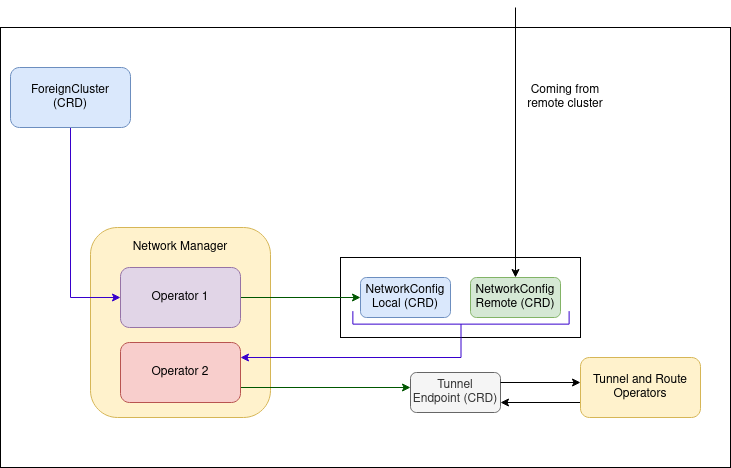
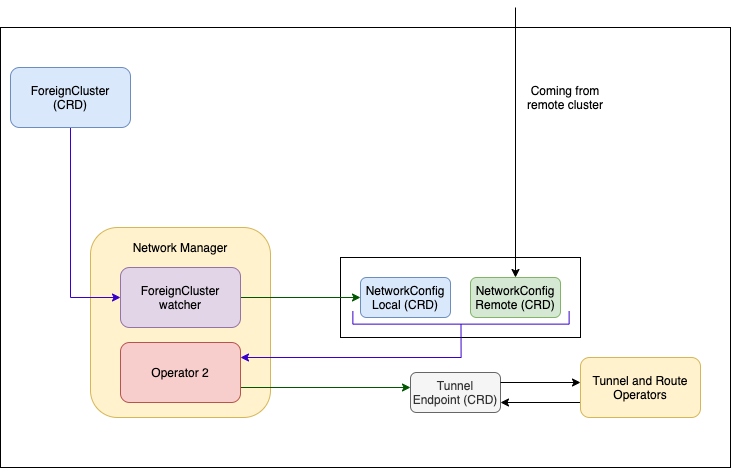
IPAM documentation
This PR adds a section on the Liqo Network Manager documentation page that describes the IPAM module and its important role in different situations: remapping of networks, translation of IP addresses of offloaded Pods and mapping of endpoint IP addresses during reflection.

diff --git a/docs/pages/concepts/networking/components/network-manager.md b/docs/pages/concepts/networking/components/network-manager.md
@@ -1,21 +1,137 @@
 ---
-title: Liqo-Network-Manager
+title:  Network Manager and IPAM
 weight: 1
 ---
 
-The Liqo Network Manager component manages the creation of the`networkconfigs.net.liqo.io` custom resources for the remote clusters. It also processes the`networkconfigs.net.liqo.io` received from the remote clusters remapping the remote networks if they overlap with any of the address spaces used in the local cluster. And when the`networkconfigs.net.liqo.io` exchanged by the two clusters are ready the Liqo Network Manager creates a new resource of type `tunnelendpoints.net.liqo.io` which models the network interconnection between the two clusters. The `tunnelendpoints.net.liqo.io` is reconciled by the [Tunnel Operator](../gateway#tunnel-operator) and the [Route Operator](../route#route-operator).
+The **Liqo Network Manager** is one of the Liqo components in charge of enabling peered clusters to communicate one to another, handling the creation of the `networkconfigs.net.liqo.io` custom resources that will be sent to remote clusters.
+Those special resources contain the network configuration of the home cluster: the PodCIDR, for example, is one of the fields of the Spec section of the resource.
 
-The following diagram illustrates how Liqo Network Manager creates the `tunnelendpoints.net.liqo.io`.
+{{% notice info %}}
+The PodCIDR is the IP addressing space used by the CNI to assign addresses to Pods (e.g., _10.0.0.0/16_).
+{{% /notice %}}
+
+In addition, the Network Manager also processes the NetworkConfigs received from the remote clusters and remaps the remote networks if they overlap with any of the address spaces used in the local cluster (see [IPAM](#ipam) for more information).
+When the NetworkConfig exchanged by the two clusters are ready, the Liqo Network Manager creates a new resource of type `tunnelendpoints.net.liqo.io` which models the network interconnection between the two clusters.
+
+The following diagram illustrates how Liqo Network Manager creates the TunnelEndpoint.
+The Network Manager creates a local NetworkConfig for each `foreignclusters.discovery.liqo.io` resource that, as the name suggests, represents a foreign cluster.
+The diagram shows also that remote clusters create their own NetworkConfig on the home cluster: the reader can guess that the local NetworkConfig is replicated on the remote cluster in the same way.
+Once the Network Manager has collected both the remote and the local NetworkConfig, an embedded operator is in charge of creating the TunnelEndpoint resource, that resumes the information contained in both resources. 
+The TunnelEndpoint is then reconciled by the [Tunnel Operator](../gateway#tunnel-operator) and the [Route Operator](../route#route-operator).
+
 
 ![Liqo Network Manager Simple Flow](../../../../images/liqonet/liqo-network-manager-simple-flow.png)
 
-#### Network Parameter Exchange
+A NetworkConfig is created populating only its Spec section with networks used in the cluster as well as parameters for the VPN tunnel configuration.
+Instead, the Status section of a NetworkConfig is updated by the remote cluster the resource has been created for (each NetworkConfig specifies in the Spec section its recipient).
+The Status section is used to signal to the cluster that have created the resource if its networks have been remapped by the remote cluster.
 
-The network parameters between two clusters are exchanged using the`networkconfigs.net.liqo.io` custom resources replicated between the clusters by the Liqo CRDReplicator component.
+{{% notice info %}}
+Traffic between clusters passes through a VPN tunnel configured by exchanging NetworkConfigs.
+{{% /notice %}}
 
-![Liqo Networkconfigs exchange flow](../../../../images/liqonet/networkconfigs-exchange-flow.png)
+The following diagram shows how information about the PodCIDR are exchanged by clusters. However, depicted NetworkConfigs do not specify only this address space, but instead contain many other information that have been ignored for the sake of semplicity.
+In the provided example, the PodCIDR of the remote cluster is already used (or creates conflicts) in the local cluster, therefore in step 2 the IPAM module maps it on another network. The local NetworkManager notify the remote cluster about the remapping by updating the Status of the resource in step 3. After the remote cluster have processed the local NetworkConfig (Step 4), the IPAM module stores how the remote cluster has remapped the local PodCIDR. Finally, the Network Manager creates the TunnelEndpoint resource combining information contained in both NetworkConfigs.
 
-1. The network configuration of Cluster1 is saved in a local custom resource (`NCFG 1->2`) containing the ClusterID of the remote cluster to whom is  destined. Same step done in Cluster2;
-2. `NCFG 1->2` is replicated to the remote cluster by the `CRDReplicator`, running in Cluster1 who knows how to interact with the API server of Cluster2. Same step done in Cluster2;
-3. In Cluster2 the custom resource `NCFG (1->2)` is processed and its status updated with the NAT information if any. The same is done with `NCFG (2->1)` in Cluster1.
-4. The CRDReplicator running in Cluster1 reflects this changes in the local resource `NCFG(1->2)`. Same step done in Cluster2; The TunnelEndpointCreator in Cluster1 combining the status of `NCFG(1->2)` and the spec of `NCFG (2->1)` it has all the necessary information to create the custom resource `TEP (1-2)` of type `tunnelendpoints.net.liqo.io`.
+![Clusters exchange network information by means of NetworkConfigs](../../../../images/liqonet/networkconfigs-exchange-info.png)
+
+#### Network Parameters Exchange
+
+The network parameters between two clusters are exchanged using the NetworkConfig custom resources replicated between the clusters by the Liqo CRDReplicator component.
+
+![Liqo NetworkConfigs exchange flow](../../../../images/liqonet/networkconfigs-exchange-flow.png)
+
+1. The network configuration of Cluster1 is saved in a local custom resource `NCFG(1->2)`, which contains the ClusterID of the remote cluster that we want to peer with. Same step done in Cluster2.
+2. The `CRDReplicator` running in Cluster1 (which knows how to interact with the API server of Cluster2) replicates `NCFG(1->2)` in the remote cluster. The same step is done in Cluster2.
+3. Once replicated in Cluster2, the custom resource `NCFG(1->2)` (living in Cluster 2) is processed and its status updated with the NAT information (if any). The same is done with `NCFG(2->1)` in Cluster1.
+4. The `CRDReplicator` running in Cluster1 reflects the updated `NCFG(1->2)` back in the local cluster. The same happens in Cluster2.
+5. The Network Manager in Cluster1 creates the custom resource `TunnelEndpoint` `TEP(1-2)` by using the information present in `NCFG(1->2)` and `NCFG(2->1)`.
+
+
+### IPAM
+Embedded within the Liqo Network Manager, the IPAM (IP Address Management) is the Liqo module in charge of:
+1. Manage networks currently in use in the home cluster.
+2. Translate the IP address of an offloaded remote pod (assigned by a foreign cluster) in the corresponding IP address that is visible from the home cluster.
+3. Translate Endpoints IP addresses during the [Reflection](../../../offloading/features/api-reflection#Overview).
+
+
+#### Networks management
+The cluster CNI provider assigns to each Pod a unique IP address, which is valid _within the cluster_ and that allows Pods to talk to each other, directly, even without the use of a Kubernetes _service_.
+Given that, Liqo extends a (first) cluster with the resources shared by a (second) remote cluster, therefore it has to enable Pods in different (peered) clusters to talk to each other directly.
+This mechanism must work even if IP addresses are valid only within the context of the cluster and therefore Pods belonging to _two_ clusters cannot talk directly.
+In addition, Liqo enables inter-cluster Pod-to-Pod without making any assumption on the address spaces (i.e. PodCIDR and ExternalCIDR) configured in each cluster.
+Therefore, Liqo must work even when the peered clusters have the same PodCIDR, hence the two Pods could have conflicting IP addresses.
+
+{{% notice info %}}
+The ExternalCIDR is the IP addressing space used by Liqo for assigning addresses to external resources during Reflection (See more [Here](#reflection-of-external-endpoints)).
+{{% /notice %}}
+
+Liqo, and in particular its IPAM module, checks if the PodCIDR of a remote cluster is already used in the local cluster.
+- If it is available, the IPAM reserves that network for the remote cluster. This means IP addresses assigned in the remote cluster are now valid also in the home cluster.
+- If a conflict is detected, the IPAM module remaps the (conflicting) PodCIDR of the remote clusters into a new address space, again reserved for that cluster.
+The same procedure happens for the ExternalCIDR.
+
+{{% notice note %}}
+The traffic toward remapped networks will require an additional NAT operation carried out by the [Tunnel Operator](../gateway#tunnel-operator) in the data plane.
+{{% /notice %}}
+
+In conclusion, the IPAM maintains a list of all the networks currently in use in the home cluster and when a new peering takes place, adds the network reserved to the remote cluster to the list. The network remains in the list as long as the peering is active and it is removed when the peering is terminated. In this way the network freed after the termination of a peering becomes available for future use.
+
+{{% notice info %}}
+You can specify reserved networks in `clusterconfigs.config.liqo.io` resource. IPAM will add these networks to the list of used networks and will no longer take it in consideration for remote clusters.
+{{% /notice %}}
+
+#### IP addresses translation of offloaded Pods
+Liqo enables the offloading of workloads on (remote) peered clusters, giving at the same time the illusion that all Pods are running on the local cluster.
+The [Virtual Kubelet (VK)](../../../offloading#virtual-kubelet) is the component in charge of offloading workloads on the remote cluster, while keeping their status always synchronized between the two clusters.
+This allows the administrator of the local cluster to inspect the status of all offloaded pods (hence, running remotely) such as they were running locally.
+However, offloaded Pods are assigned an IP address by the CNI of the foreign cluster, as they actually are run there.
+Even if these addresses are valid on the foreign cluster, they may have no meaning in the original cluster.
+
+Assume that clusters A and B have both PodCIDR equal to 10.0.0.0/24 and that their administrators agree to share resources by establishing a Liqo peering.
+Thus, IPAM module of B decides to map A's PodCIDR on an available network, say 192.168.0.0/24.
+After the peering has been completed, B offloads Pod A1 on cluster A.
+If the CNI of cluster A assigns IP address 10.0.0.34 to Pod A1, the VK(A) running in B detects the IP assignment and needs to update the Shadow Pod Status.
+
+{{% notice info %}}
+The Shadow Pod is a local copy of the Pod resource that is created and kept up to date by Liqo when offloading a Pod.
+{{% /notice %}}
+
+![Example IP addresses translation when offloading a Pod](../../../../images/liqonet/offloaded-pod-ip.png)
+
+In this particular example, while pod A1 has IP 10.0.0.34, its shadow copy (in cluster B) will have IP 192.168.0.34.
+Since the IPAM module keeps track of how remote networks have been remapped by the home cluster (See #networks-management), it can take care of the translation of addresses.
+For this reason, IPAM provides an API consumed by the VK when the latter has to update the Shadow Pod Status and therefore its IP address.
+
+{{% notice note %}}
+The [Tunnel Operator](../gateway#tunnel-operator) will carry out the proper NATs operations in the data plane, translating IP src/dest addresses of the packets coming from/directed to the offloaded Pod.
+{{% /notice %}}
+
+The IPAM module achieves this task by keeping track of how foreign clusters have remapped local networks and by providing offloaded Pod IP addresses to the Virtual Kubelet when it has to update the Status of Shadow Pods.
+
+
+#### Reflection
+The [Reflection](../../../offloading/features/api-reflection#Overview) is one of the most relevant Liqo features, which is carried out by the VK and deals with the replication of local Kubernetes resources on foreign clusters, in particular _Services_ and _Endpoints_.
+
+In general, Endpoints that are going to be reflected can live either on:
+1. The local cluster, this is the case of Pods running on the home cluster.
+2. Elsewhere, such as a Pod not running on the home cluster or on the cluster the reflection is going to happen, but in a third one.
+
+In both cases, the IPAM module plays a decisive role, as it is in charge of translating IP addresses of reflected Endpoints.
+
+##### Reflection of local Endpoints
+Similarly to what has been described in the [Translation of offloaded Pods](#ip-addresses-translation-of-offloaded-pods) Section, when crossing the 
+{{% notice note %}}
+This documentation section is a work in progress
+{{% /notice %}}
+
+##### Reflection of external Endpoints
+{{% notice note %}}
+This documentation section is a work in progress
+{{% /notice %}}
+Thus, the External CIDR network is used whenever the home cluster has to expose on a foreign cluster an external resource (such as a Pod living on a third cluster).
+
+It is worth to point out that traffic toward External CIDR passes through the cluster that has reflected the external resource before reaching its final destination (_hub and spoke_ topology such as A <--> B <--> C, where B offloaded Pods in both A and C, and a Pod in A has to contact a Pod in C).
+This means that the cluster that reflects a Pod using its External CIDR receives the data-plane traffic directed to that Pod, which has to be further redirected in the third cluster to reach the actual Pod.
+This is achieved thanks to the `natmappings.net.liqo.io` resource, which is populated by the IPAM (in Cluster B) with the associations between the Pod IP addresses and the associated External CIDR addresses.
+This resource is reconciled by the [Tunnel Operator](../gateway#tunnel-operator) that adds the proper NAT rules.
